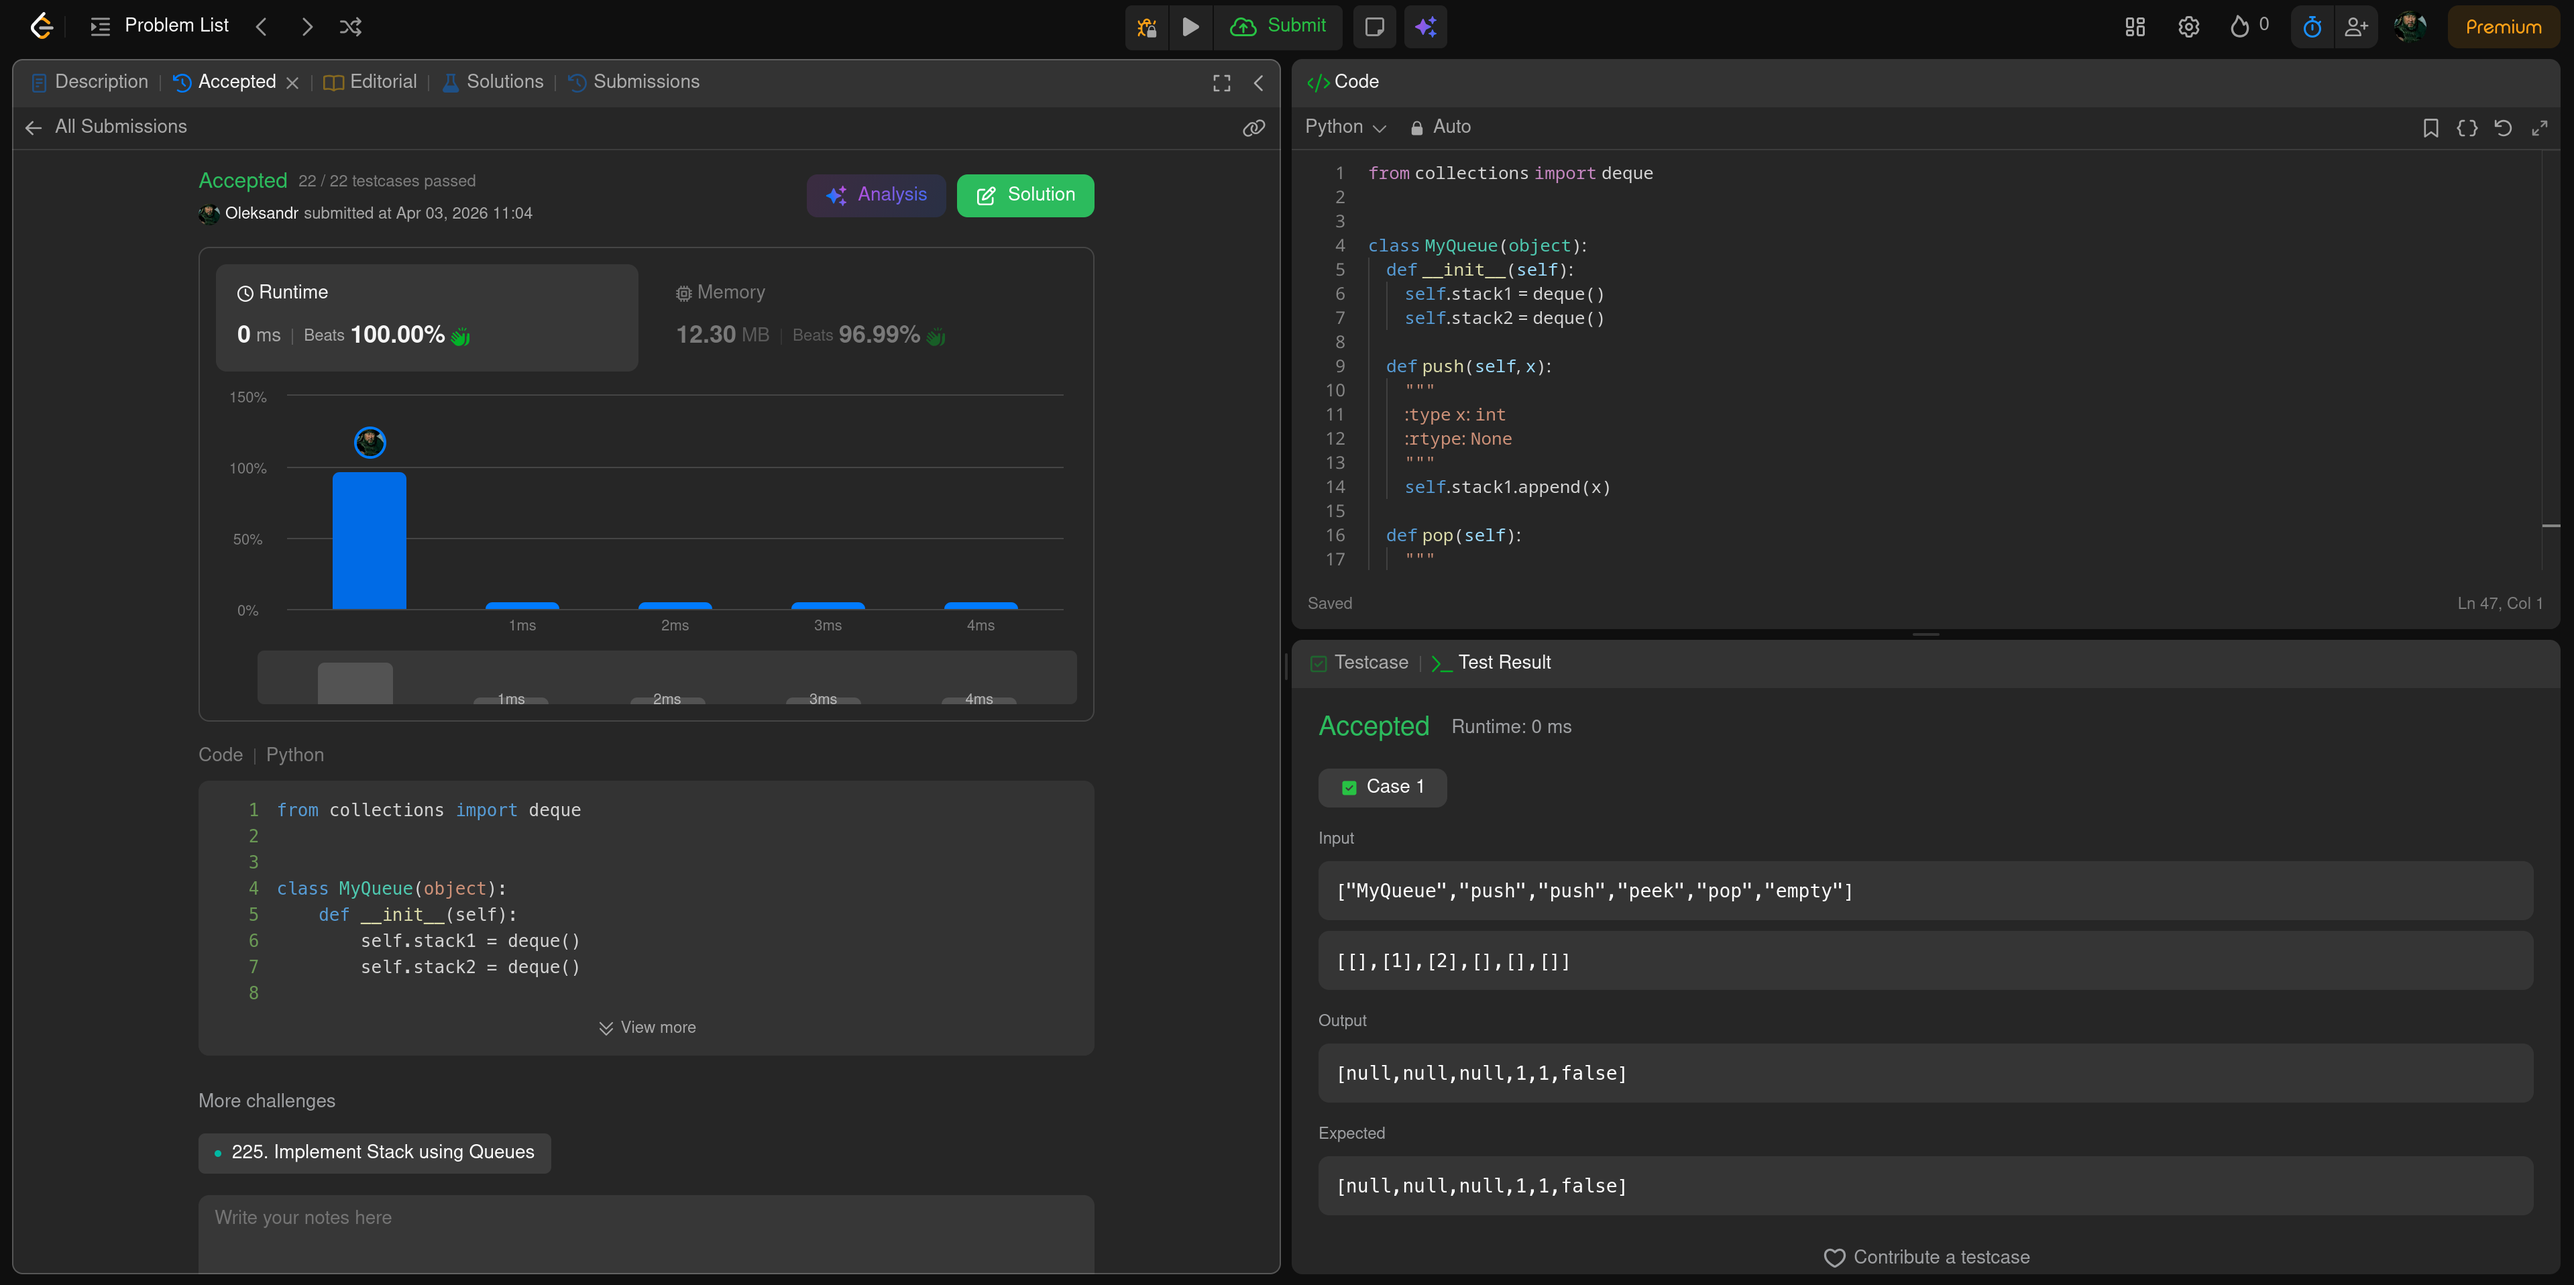
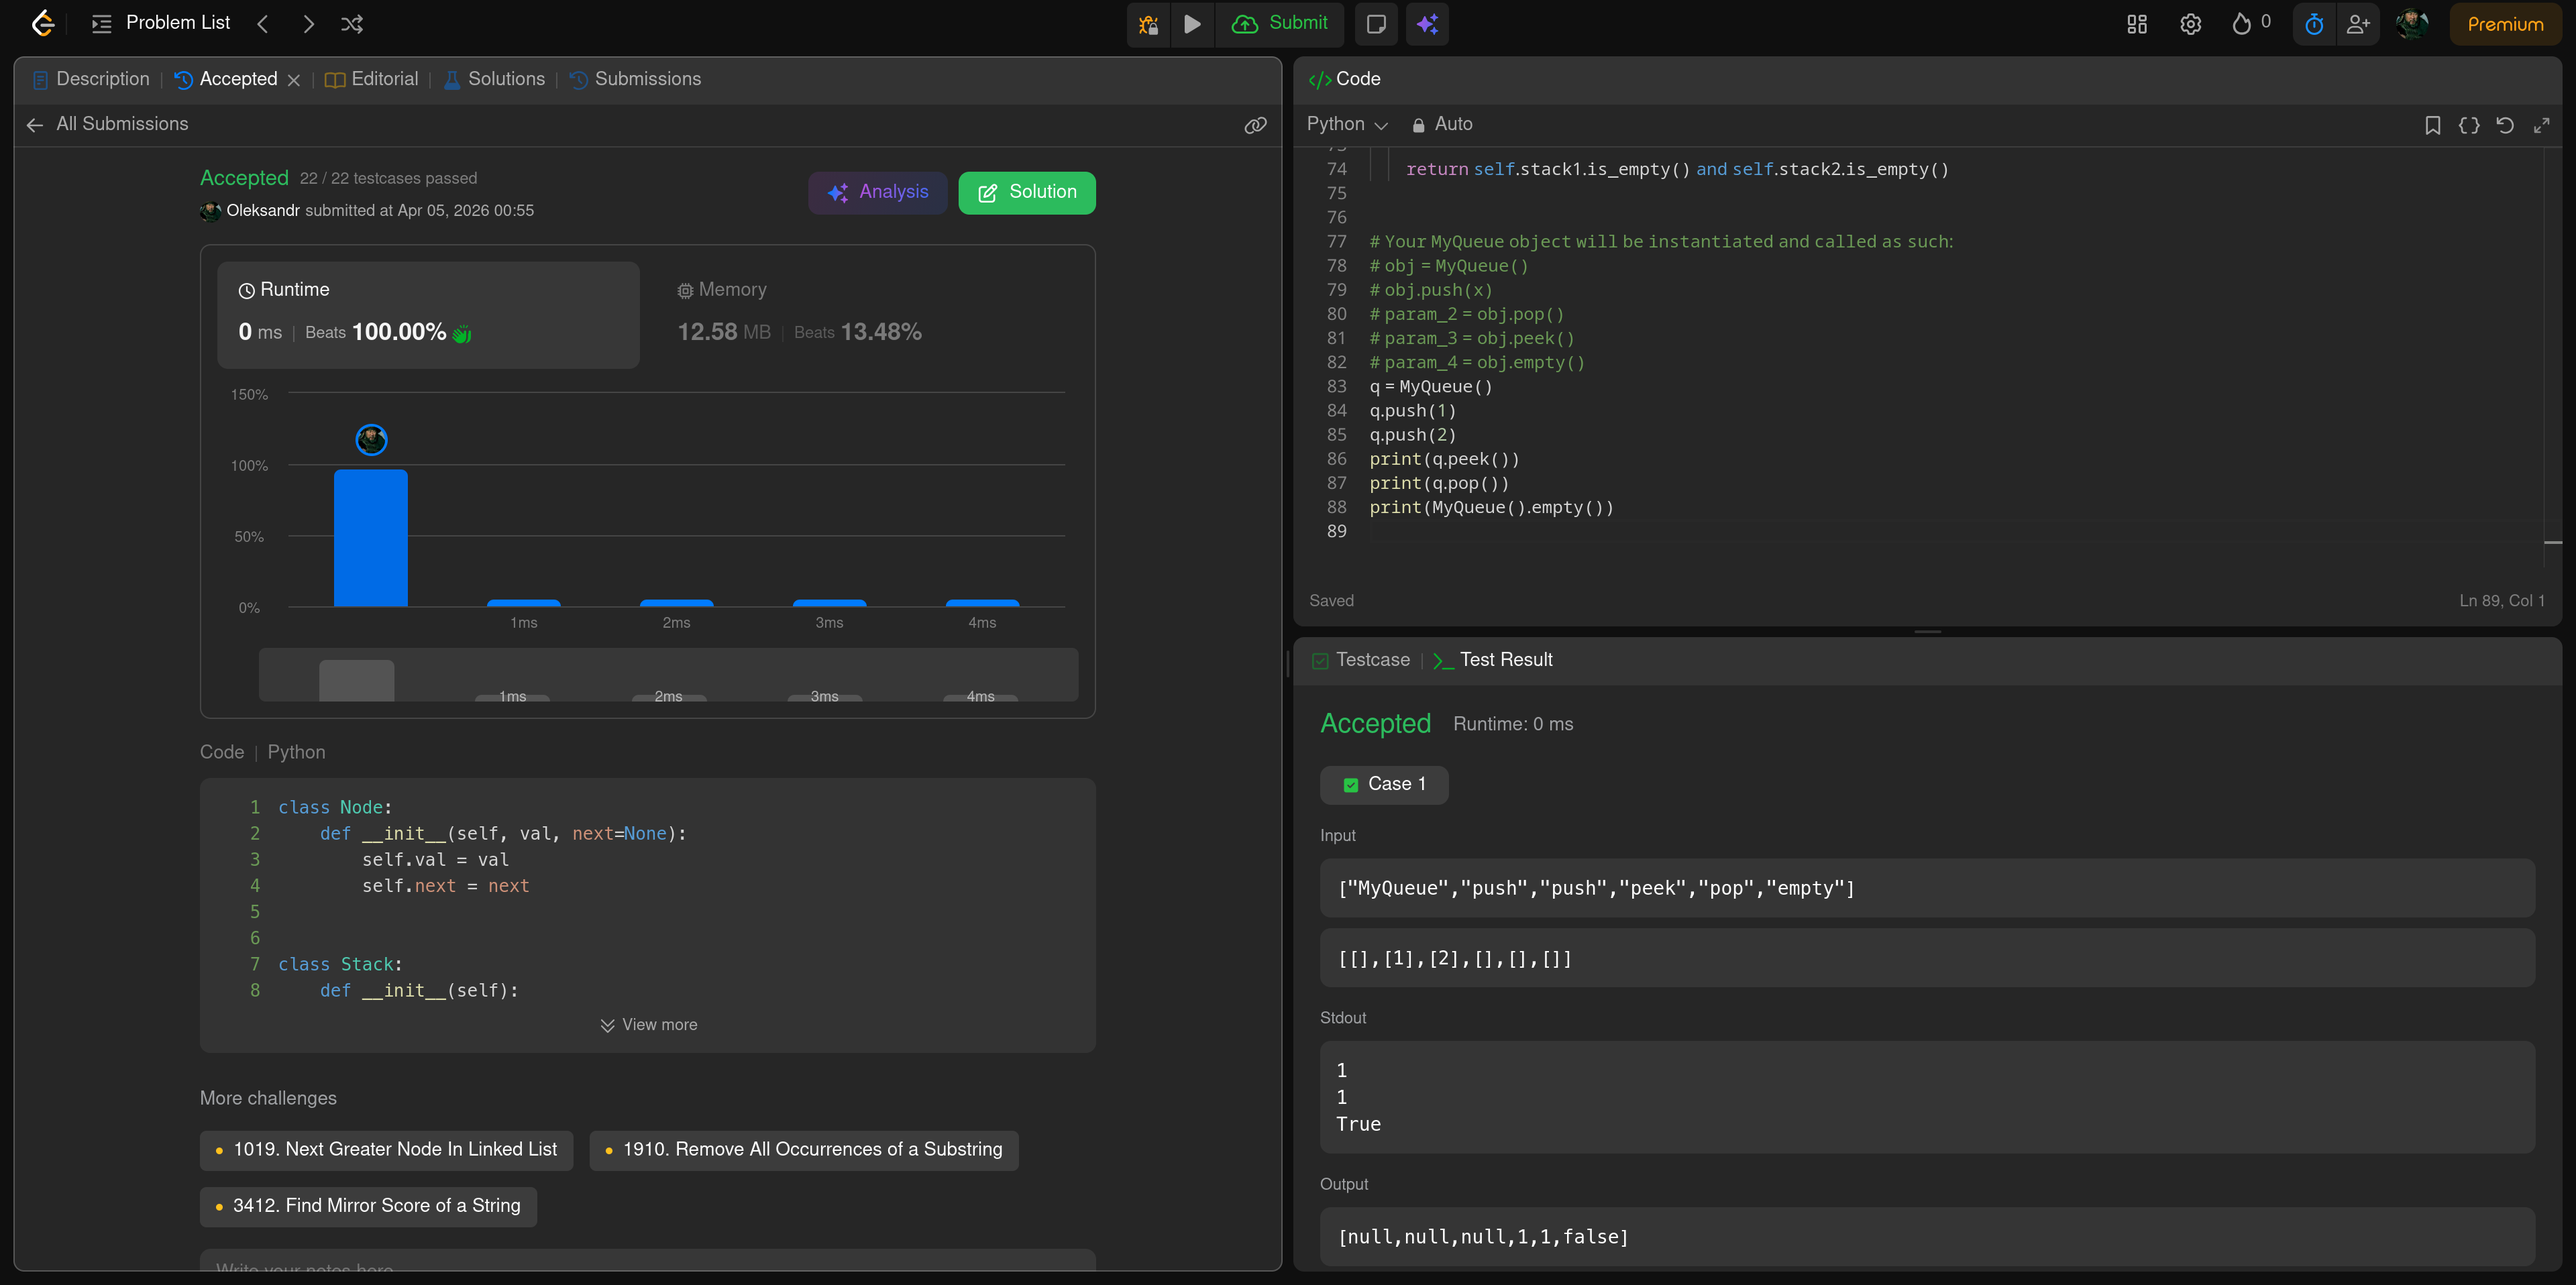
rewrite Queue_using_Stacks using my own implementation of stack

diff --git a/Queue_using_Stacks/queue.py b/Queue_using_Stacks/queue.py
@@ -1,41 +1,77 @@
-from collections import deque
+class Node:
+    def __init__(self, val, next=None):
+        self.val = val
+        self.next = next
+
+
+class Stack:
+    def __init__(self):
+        self.head = None
+
+    def push(self, item):
+        self.head = Node(item, self.head)
+
+    def pop(self, i=0):
+        h = self.head
+        while i:
+            try:
+                h = h.next
+            except AttributeError:
+                raise IndexError("Or empty stack, or too high index")
+            i -= 1
+        try:
+            res = self.head.val
+            self.head = self.head.next
+        except AttributeError:
+            raise TypeError("Empty stack!")
+
+        return res
+
+    def peek(self):
+        try:
+            return self.head.val
+        except AttributeError:
+            raise TypeError("Empty stack!")
+
+    def is_empty(self):
+        return self.head is None
 
 
 class MyQueue(object):
     def __init__(self):
-        self.stack1 = deque()
-        self.stack2 = deque()
+        self.stack1 = Stack()
+        self.stack2 = Stack()
 
     def push(self, x):
         """
         :type x: int
         :rtype: None
         """
-        self.stack1.append(x)
+        self.stack1.push(x)
 
     def pop(self):
         """
         :rtype: int
         """
-        if not self.stack2:
-            while self.stack1:
-                self.stack2.append(self.stack1.pop())
+        if self.stack2.is_empty():
+            while not self.stack1.is_empty():
+                self.stack2.push(self.stack1.pop())
         return self.stack2.pop()
 
     def peek(self):
         """
         :rtype: int
         """
-        if not self.stack2:
-            while self.stack1:
-                self.stack2.append(self.stack1.pop())
-        return self.stack2[-1]
+        if self.stack2.is_empty():
+            while not self.stack1.is_empty():
+                self.stack2.push(self.stack1.pop())
+        return self.stack2.peek()
 
     def empty(self):
         """
         :rtype: bool
         """
-        return not self.stack1 and not self.stack2
+        return self.stack1.is_empty() and self.stack2.is_empty()
 
 
 # Your MyQueue object will be instantiated and called as such:
@@ -44,3 +80,9 @@ class MyQueue(object):
 # param_2 = obj.pop()
 # param_3 = obj.peek()
 # param_4 = obj.empty()
+q = MyQueue()
+q.push(1)
+q.push(2)
+print(q.peek())
+print(q.pop())
+print(MyQueue().empty())
